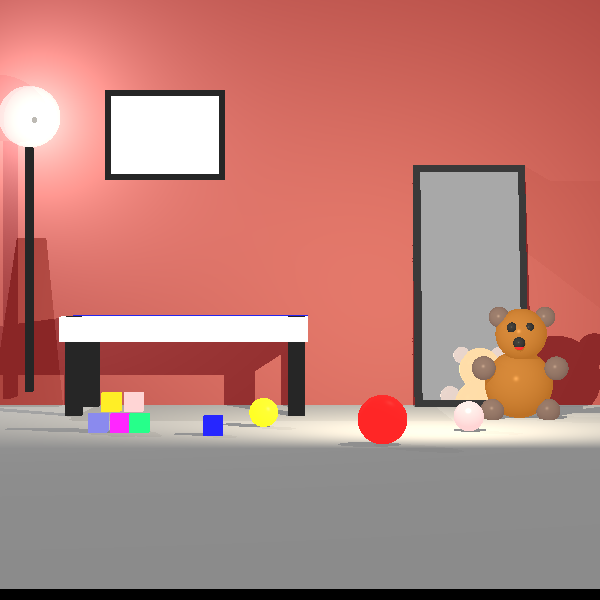
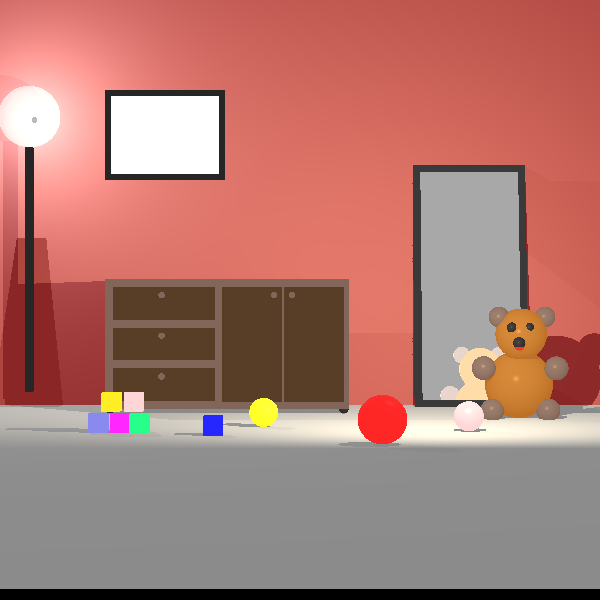
continue new MP2

Changed region(s): [[0.0, 0.45, 0.6, 0.72], [0.0, 0.54, 0.03, 0.63]]

diff --git a/unitTests/improvments/improvmentsTests.java b/unitTests/improvments/improvmentsTests.java
@@ -208,12 +208,12 @@ public class improvmentsTests {
 
     @Test
     public void MP2() {
-       // Camera camera = new Camera(new Point(0, 1000, 50), new Vector(0, -1,0), new Vector(0, 0, -1))
-         //   .setVPSize(200, 200).setVPDistance(550); //מלמעלה
+        //Camera camera = new Camera(new Point(0, 1000, 50), new Vector(0, -1,0), new Vector(0, 0, -1))
+          //.setVPSize(200, 200).setVPDistance(550); //מלמעלה
         Camera camera = new Camera(new Point(0, 0, 1000), new Vector(0, 0, -1), new Vector(0, 1, 0))
         .setVPSize(200, 200).setVPDistance(550);//ממול
         //Camera camera = new Camera(new Point(-700, 10, 20), new Vector(1, 0, 0), new Vector(0, 1, 0))
-          //      .setVPSize(200, 200).setVPDistance(400); //מהצד
+          //    .setVPSize(200, 200).setVPDistance(400); //מהצד
 
         scene.setAmbientLight(new AmbientLight(new Color(WHITE), 0.15));
         scene.geometries.add(
@@ -268,28 +268,101 @@ public class improvmentsTests {
                                 .setKs(0.2)
                                 .setKt(0.7))),
 
-                new Polygon( //סדין
-                        new Point(5, -9.9, 7),
-                        new Point(5, -9.9, -93),
-                        new Point(-145, -9.9, -93),
-                        new Point(-145, -9.9, 7)
-                ).setEmission(new Color(0, 0, 200)),
+
+                new Cuboid(new Point(-120, 13, -15),150,80, 80,new Color(92, 64, 51)),// counter
+
+                new Polygon(//right door in the counter
+                        new Point(-10, 8, -15),
+                        new Point(27, 8, -15),
+                        new Point(27, -63, -15),
+                        new Point(-10, -63, -15)
+                ).setEmission(new Color(49.8, 24.71, 0)),
+
+                new Polygon(//left door in the counter
+                        new Point(-11, 8, -15),
+                        new Point(-48, 8, -15),
+                        new Point(-48, -63, -15),
+                        new Point(-11, -63, -15)
+                ).setEmission(new Color(49.8, 24.71, 0)),
+
+                new Sphere(2d,new Point(-5, 3, -13)).setEmission(new Color(92, 64, 51)),
+                new Sphere(2d,new Point(-16, 3, -13)).setEmission(new Color(92, 64, 51)),
+                new Sphere(2d,new Point(-85, 3, -13)).setEmission(new Color(92, 64, 51)),
+                new Sphere(2d,new Point(-85, -22, -13)).setEmission(new Color(92, 64, 51)),
+                new Sphere(2d,new Point(-85, -47, -13)).setEmission(new Color(92, 64, 51)),
+
+
+                new Polygon(//drawer
+                        new Point(-115, 8, -15),
+                        new Point(-52, 8, -15),
+                        new Point(-52, -12, -15),
+                        new Point(-115, -12, -15)
+                ).setEmission(new Color(49.8, 24.71, 0)),
+
+                new Polygon(//drawer
+                        new Point(-115, -37, -15),
+                        new Point(-52, -37, -15),
+                        new Point(-52, -17, -15),
+                        new Point(-115, -17, -15)
+                ).setEmission(new Color(49.8, 24.71, 0)),
+
+                new Polygon(//drawer
+                        new Point(-115, -62, -15),
+                        new Point(-52, -62, -15),
+                        new Point(-52, -42, -15),
+                        new Point(-115, -42, -15)
+                ).setEmission(new Color(49.8, 24.71, 0)),
+
+                new Sphere(3d, new Point(27, -67, -18))//leg of counter
+                        .setEmission(new Color(BLACK))
+                        .setMaterial(new Material()
+                                .setKd(0.2)
+                                .setKs(0.3)
+                                .setShininess(30)),
+                new Sphere(3d, new Point(27, -67, -93))//leg of counter
+                        .setEmission(new Color(BLACK))
+                        .setMaterial(new Material()
+                                .setKd(0.2)
+                                .setKs(0.3)
+                                .setShininess(30)),
+                new Sphere(3d, new Point(-117, -67, -93))//leg of counter
+                        .setEmission(new Color(BLACK))
+                        .setMaterial(new Material()
+                                .setKd(0.2)
+                                .setKs(0.3)
+                                .setShininess(30)),
+                new Sphere(3d, new Point(-117, -67, -18))//leg of counter
+                        .setEmission(new Color(BLACK))
+                        .setMaterial(new Material()
+                                .setKd(0.2)
+                                .setKs(0.3)
+                                .setShininess(30)),
+
+
+
+
+//                new Polygon( //סדין
+//                        new Point(5, -9.9, 7),
+//                        new Point(5, -9.9, -93),
+//                        new Point(-145, -9.9, -93),
+//                        new Point(-145, -9.9, 7)
+//                ).setEmission(new Color(0, 0, 200)),
 
 //                new Polygon(new Point(-150, -28, 73),//כרית
 //                        new Point(-115, -28, 73),
 //                        new Point(-105, 5, -23),
 //                        new Point(-141, 5, -23)).setEmission(new Color(WHITE)),
 //
-                 new Cuboid(new Point(-145, -10, 7),150,15, 100,new Color(WHITE)),//bed
-
-                //top left bed leg
-                new Cuboid(new Point(-142, -10, -80), 10, 60, 10),
-                //top right bed leg
-                new Cuboid(new Point(-7, -10, -80), 10, 60, 10),
-                //bottom right bed leg
-                new Cuboid(new Point(-7, -10, 4), 10, 60, 10),
-                //bottom left bed leg
-                new Cuboid(new Point(-142, -10, 4), 10, 60, 10),
+//                 new Cuboid(new Point(-145, -10, 7),150,15, 100,new Color(WHITE)),//bed
+//
+//                //top left bed leg
+//                new Cuboid(new Point(-142, -10, -80), 10, 60, 10),
+//                //top right bed leg
+//                new Cuboid(new Point(-7, -10, -80), 10, 60, 10),
+//                //bottom right bed leg
+//                new Cuboid(new Point(-7, -10, 4), 10, 60, 10),
+//                //bottom left bed leg
+//                new Cuboid(new Point(-142, -10, 4), 10, 60, 10),
 
                 //cuboids
                 new Cuboid(new Point(-90, -60, 130), 10, 10, 10, new Color(0, 255, 100)),
